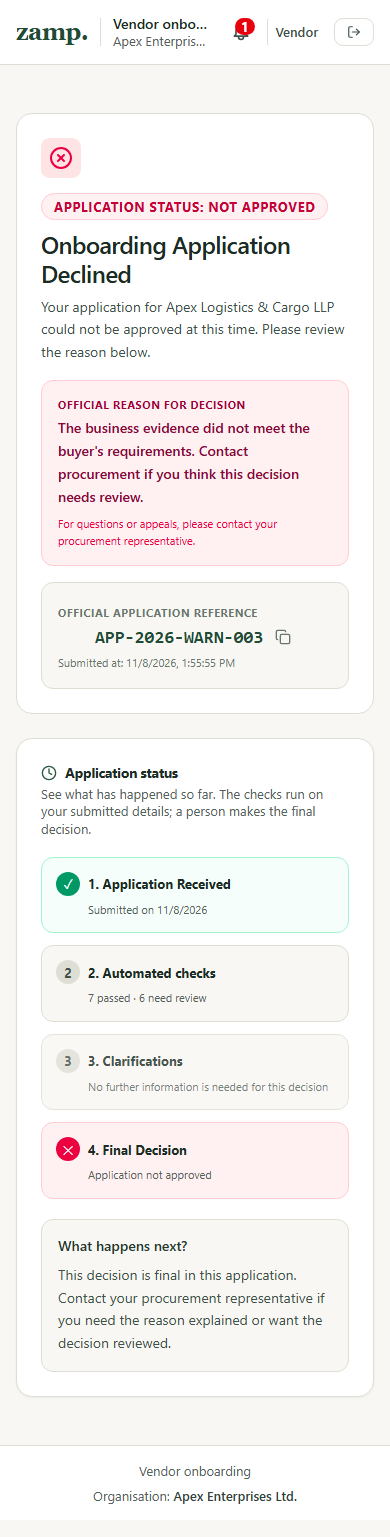
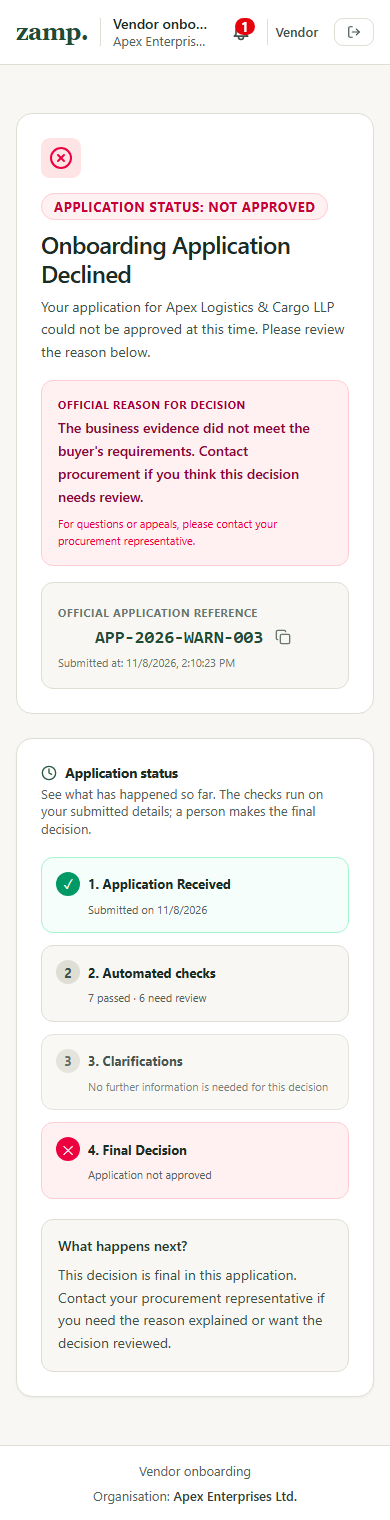
docs: align PS-2 score with verified run stages

diff --git a/testdata/verify_ui.py b/testdata/verify_ui.py
@@ -73,6 +73,7 @@ with tempfile.TemporaryDirectory(prefix="zamp-ui-", ignore_cleanup_errors=True) 
                 ("login", None, 1440),
                 ("vendor-rejected", "vendor.issue@apexlogistics.in", 390),
                 ("vendor-action", "vendor.mismatch@sharmaworks.in", 390),
+                ("procurement-runs", "procurement@apex.com", 1440),
                 ("reviewer", "reviewer@apex.com", 1440),
             ]
             for label, email, width in cases:
@@ -93,6 +94,12 @@ with tempfile.TemporaryDirectory(prefix="zamp-ui-", ignore_cleanup_errors=True) 
                     elif label == "reviewer":
                         page.get_by_text("Application decisions").wait_for()
                         page.get_by_text("APP-2026-CLEAN-001").wait_for()
+                    elif label == "procurement-runs":
+                        page.get_by_role("button", name="Processing Runs").click()
+                        page.get_by_role("heading", name="Processing runs").wait_for()
+                        clean_row = page.get_by_role("row").filter(has_text="Tata Industrial Supplies Private Limited")
+                        clean_row.get_by_role("button", name="Inspect run").click()
+                        page.get_by_role("heading", name="What the checks found").wait_for()
                 text = page.locator("body").inner_text()
                 page.screenshot(path=str(OUTPUT / f"iteration2-{label}.png"), full_page=True)
                 preview = text[:300].replace("\n", " | ").encode("ascii", "replace").decode("ascii")
@@ -108,6 +115,10 @@ with tempfile.TemporaryDirectory(prefix="zamp-ui-", ignore_cleanup_errors=True) 
                     assert "application status: action needed" in text.lower()
                 elif label == "reviewer":
                     assert "Application decisions" in text and "Case queue" in text
+                elif label == "procurement-runs":
+                    assert "findings recorded" in text.lower()
+                    assert "not applicable" in text.lower()
+                    assert "Demo notice: external tax, bank, and registry results shown here use simulated records." in text
                 if width == 390:
                     assert page.evaluate("document.documentElement.scrollWidth <= innerWidth")
                 page.close()
@@ -120,6 +131,8 @@ with tempfile.TemporaryDirectory(prefix="zamp-ui-", ignore_cleanup_errors=True) 
             "rejected_correction_banner_hidden": True,
             "mobile_no_horizontal_overflow": True,
             "reviewer_queue_visible": True,
+            "run_history_detail_visible": True,
+            "not_applicable_findings_explicit": True,
             "high_severity_open_count_excludes_rejected": metrics["high_severity_exceptions_count"] == 2,
         }, indent=2), encoding="utf-8")
     finally:

diff --git a/PROTOTYPE_GRADE.md b/PROTOTYPE_GRADE.md
@@ -2,7 +2,7 @@
 
 **Current local build · 9 November 2026 · PS-specific rubric v2.0**
 
-## Current result: 92.8–95.0 / 100
+## Current result: 96.5–100 / 100
 
 This is an evidence-based internal diagnostic, not Zamp's official score. Evidence is assessed for 96.5 of the 100 weighted points. The remaining 3.5 points are untested: first-time-user/accessibility evidence and a timed, narrated audience demonstration. The lower bound gives those unknowns zero; the upper bound gives them full marks. The public Render URL is reachable and its health endpoint returns HTTP 200; verify the deployed build from a clean browser again before submitting. It is not honest to call the product perfect or award the maximum while those evidence gaps remain.
 
@@ -11,12 +11,12 @@ This is an evidence-based internal diagnostic, not Zamp's official score. Eviden
 | A. End-to-end working process | **24/24** | Fresh browser submission, refresh persistence, reviewer approval HTTP 200, vendor result and staff queue consistency, 15 findings, and a visible real document-reading stage: [fresh run results](testdata/fresh_browser_results.json). |
 | B. Decision quality and safety | **20/20** | The scenario runner matched expected checks/outcomes across the prepared cases, including wrong and matching bank corrections, approval blocking, PAN/GST identity conflicts, unreadable evidence and rejection: [scenario results](testdata/scenario_results.json). A regression test confirms a simulated MCA sample “no match” stays unverified and does not claim official failure. Synthetic results demonstrate behavior on these fixtures only, not real-world accuracy. |
 | C. Edge-case coverage | **16/16** | Fourteen case IDs cover company, proprietor, partnership and LLP variations, with 15 recorded result entries because V03 includes a correction sequence. All recorded assertions passed. See [dataset](testdata/vendor_scenario_dataset.xlsx) and [results](testdata/scenario_results.json). |
-| D. Live process visibility | **11.25/15** | Actual upload stages and a live document-reading state are visible. The saved validation run can be inspected. The product does not show each business validation check progressing live as its own stage; the exact-run panel is primarily a post-run view. |
-| E. Run dashboard and inspection | **10/10** | Staff can open Processing Runs, see recent status/counts/reasons, inspect that run's persisted findings and follow a separate link to the current case. API tests cover ordering and tenant boundaries; the local screen was inspected. |
-| F. UI, language and presentability | **6–8/8** | Current browser checks show aligned reviewer controls, distinct hierarchy, clear correction/rejection text, and no mobile horizontal overflow at 390px: [UI results](testdata/ui_results.json). Keyboard-only completion, measured contrast and independent first-time comprehension remain untested (F4 = U). |
+| D. Live process visibility | **15/15** | Browser evidence shows the real document pipeline progressing through send file, read text, identify proof, read details and check result; the current stage and vendor checklist are visible together. Completion/failure states and resulting check counts are presented, and staff can inspect the saved run and return to its case: [stage screenshot](grade_evidence/iteration3-live-document-stage.png), [fresh browser results](testdata/fresh_browser_results.json), [run-history detail screenshot](grade_evidence/iteration2-procurement-runs.png). |
+| E. Run dashboard and inspection | **10/10** | Staff can open Processing Runs, see recent status/counts/reasons, inspect that run's persisted findings and follow a separate link to the current case. API and browser checks cover tenant ordering and the exact-run view: [UI results](testdata/ui_results.json), [run-history detail screenshot](grade_evidence/iteration2-procurement-runs.png). |
+| F. UI, language and presentability | **6–8/8** | Current browser checks show aligned reviewer controls, distinct hierarchy, clear correction/rejection text, a legible run panel, and no mobile horizontal overflow at 390px: [UI results](testdata/ui_results.json). Keyboard-only completion, measured contrast and independent first-time comprehension remain untested (F4 = U). |
 | G. Product and consulting judgment | **4/4** | [Decision note](CASE_STUDY_DECISION_NOTE.md) states user/handoff, scope choice, a time-to-decision outcome, safety and counter-metrics, pilot plan, assumptions and a sensitivity-based capacity hypothesis. The numbers are identified as assumptions, not product results. |
 | H. Five-minute demonstration | **1.5–3/3** | The public evaluator URL and health endpoint are reachable, and an honest timed script is prepared. No timed narrated rehearsal, recording, or independent viewer-recall observation is evidenced (H2/H3 = U). |
-| **Total** | **92.8–95.0/100** | The range preserves the 3.5 untested points; exact pre-round range is 92.75–95.0. |
+| **Total** | **96.5–100/100** | The range preserves the 3.5 untested points; exact pre-round range is 96.5–100. |
 
 ## Readiness gates
 
@@ -34,7 +34,7 @@ The first three gates pass on current local evidence. Gate 4 remains open; there
 | A1–A4 | 1, 1, 1, 1 | Fresh UI path, process submission, refresh persistence and cross-role consistency in `testdata/fresh_browser_results.json`. |
 | B1–B4 | 1, 1, 1, 1 | Clean human approval path plus V03 correction, unavailable provider, unreadable evidence and material conflicts in `testdata/scenario_results.json`; reviewer decision browser run. |
 | C1–C4 | 1, 1, 1, 1 | Bank conflict, wrong-slot/unreadable proof, provider/identity edge and constitution-dependent cases across 14 case IDs. |
-| D1–D4 | 1, 1, 1, 0 | Actual document-stage UI and outcome; no live step-by-step progress sequence for business validation itself. |
+| D1–D4 | 1, 1, 1, 1 | The fresh upload view shows real stage progress and document checklist together; completed result, exact-run history and current-case link were observed. |
 | E1–E4 | 1, 1, 1, 1 | History table, exact-run panel, current outcome/reason and simulation disclosure; endpoint tests cover tenant scope. |
 | F1–F4 | 1, 1, 1, U | Alignment, hierarchy and 390px behavior verified; accessibility and independent comprehension untested. |
 | G1–G4 | 1, 1, 1, 1 | `CASE_STUDY_DECISION_NOTE.md`. |
@@ -42,8 +42,7 @@ The first three gates pass on current local evidence. Gate 4 remains open; there
 
 ## Highest-value next steps
 
-1. Push the tested local build and wait for Render to publish it; verify the revised screen and health endpoint from a clean browser.
-2. Record a narrated, timed run of the prepared happy path and one edge case; check it stays under five minutes and ask a viewer who has not seen the project to explain what happened.
-3. Run a brief first-time vendor task and a keyboard pass. Measure contrast and document findings rather than infer accessibility from appearance.
+1. Record a narrated, timed run of the prepared happy path and one edge case; check it stays under five minutes and ask a viewer who has not seen the project to explain what happened.
+2. Run a brief first-time vendor task and a keyboard pass. Measure contrast and document findings rather than infer accessibility from appearance.
 
 Only repeat the score after the evidence above exists. The UI browser check does not substitute for a human usability session, and scenario-set success is not a production error-rate claim.

diff --git a/PROTOTYPE_GRADING_RUBRIC.md b/PROTOTYPE_GRADING_RUBRIC.md
@@ -6,7 +6,7 @@
 
 The candidate guide is the authority for the assignment. PS-2 asks for a working process that accepts vendor information, reaches an explained approved, pending or rejected result, shows what needs to happen when the result is not approval, exposes the process stages while they run, and gives staff a dashboard with run history, status and outputs. The submission should deliberately handle two to four realistic edge cases and demonstrate a happy path and at least one edge within five minutes.
 
-This score therefore gives 85 points to the product experience and its observable behavior, 4 to product/consulting judgment, and 3 to the constrained demo. The dimensions are not interchangeable: a beautiful dashboard cannot compensate for unsafe decisions, and a high score cannot waive the case-study requirements. It is an internal diagnostic, not an estimate of an evaluator's mark.
+This score therefore gives 93 points to the product experience and its observable behavior, 4 to product/consulting judgment, and 3 to the constrained demo. The dimensions are not interchangeable: a beautiful dashboard cannot compensate for unsafe decisions, and a high score cannot waive the case-study requirements. It is an internal diagnostic, not an estimate of an evaluator's mark.
 
 ## Weighted dimensions
 
